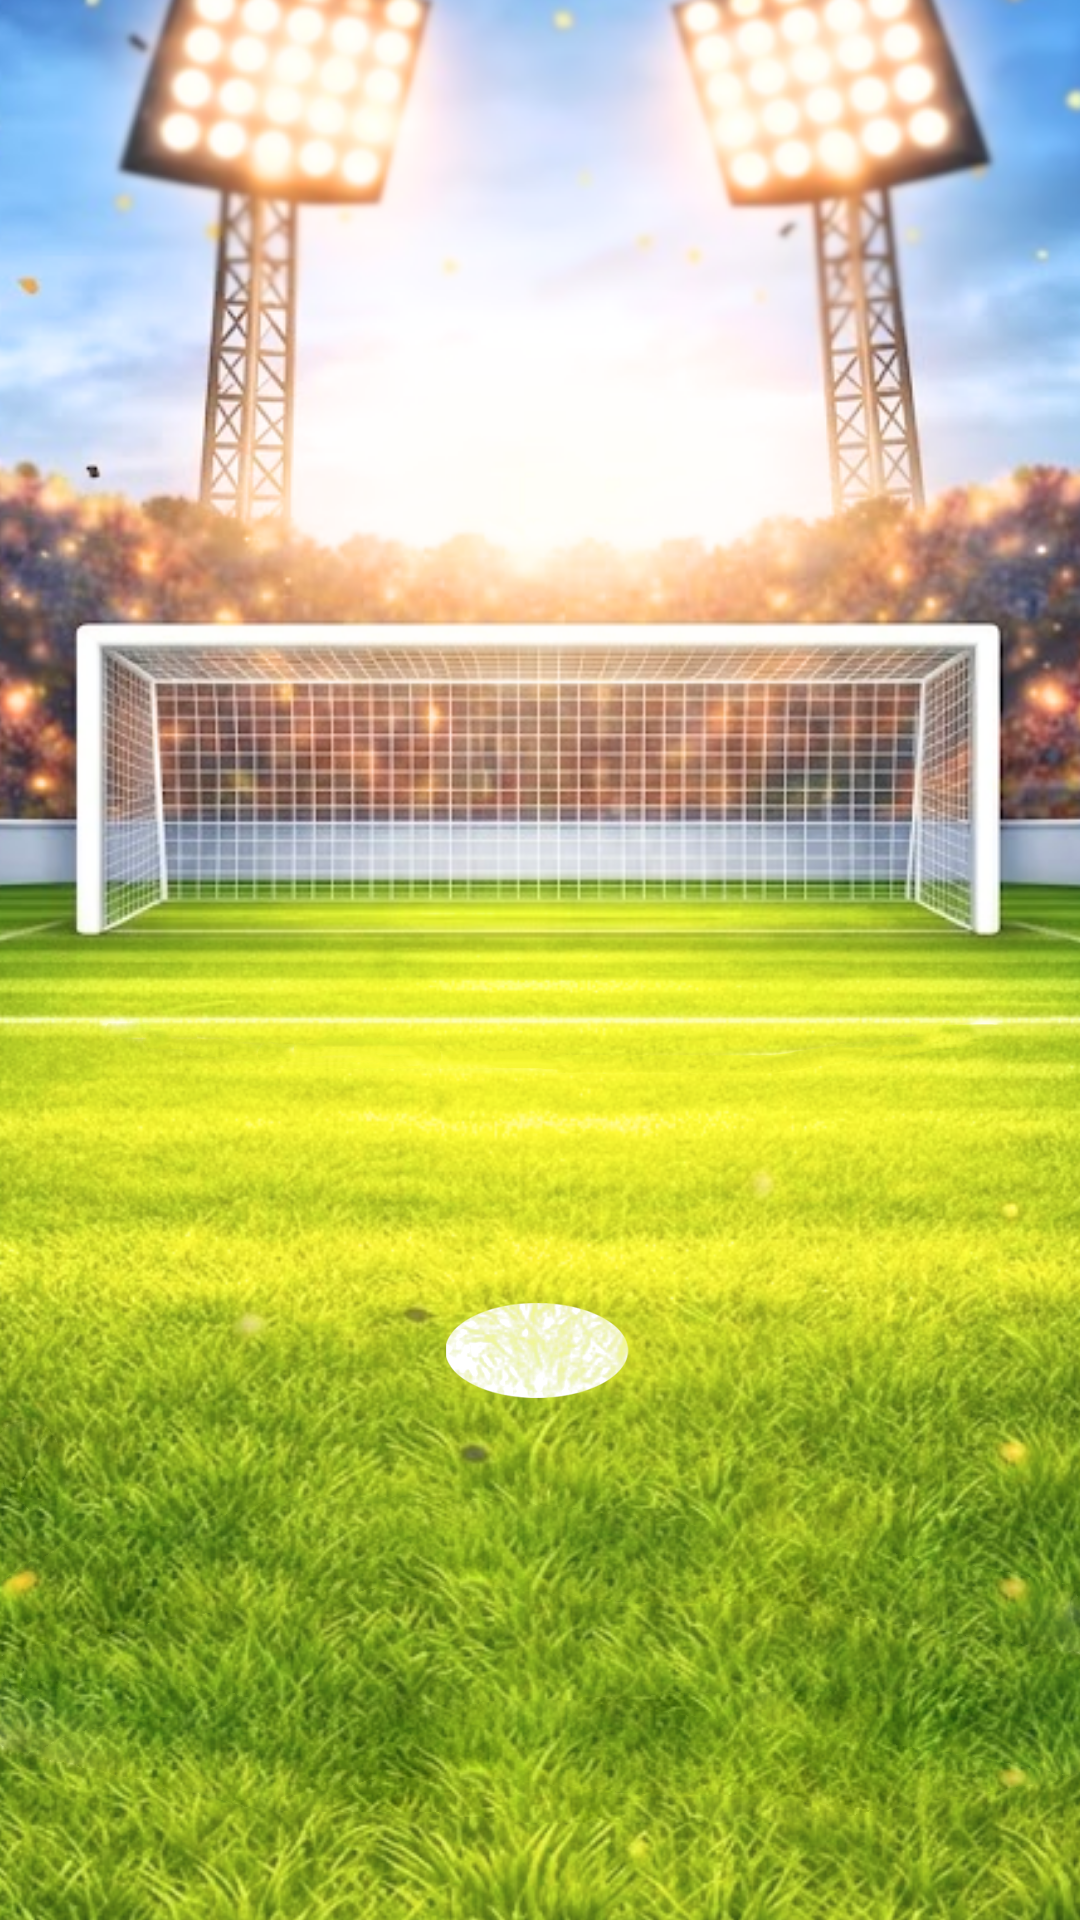
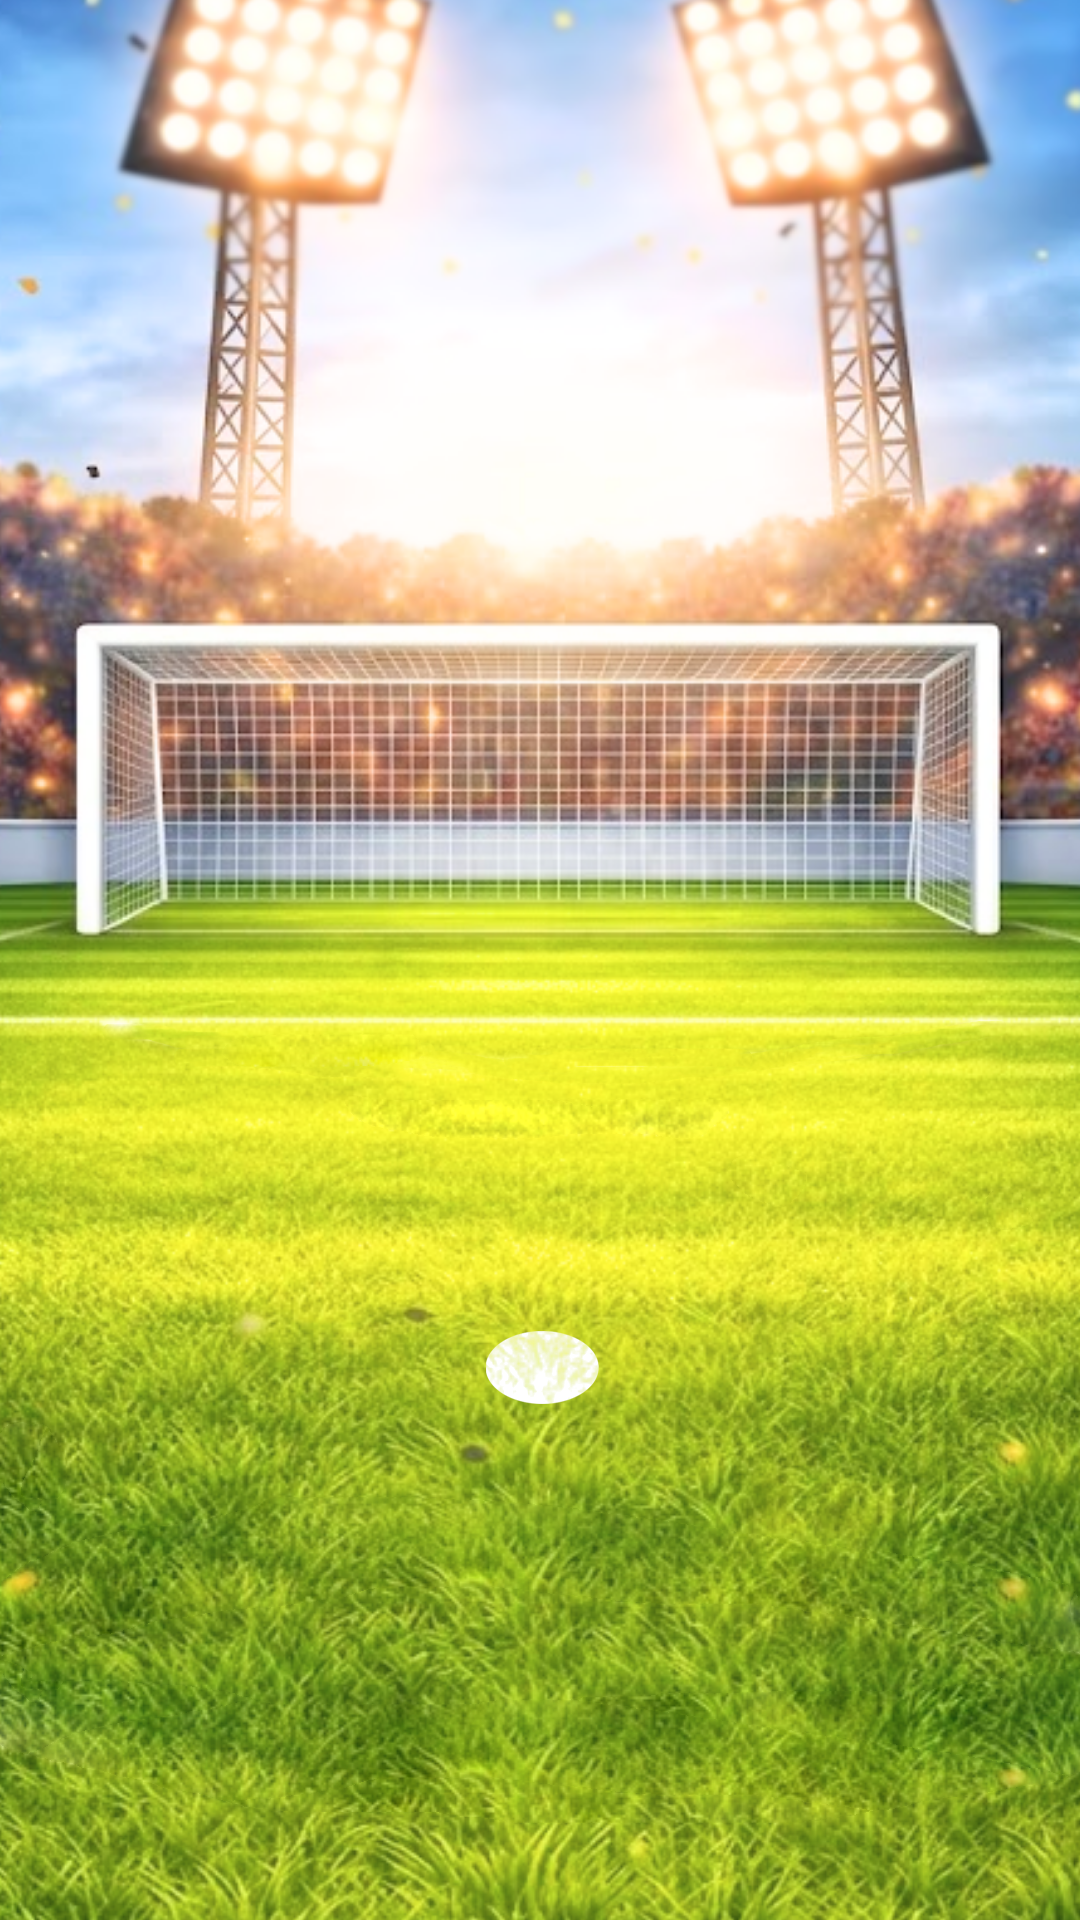
update

diff --git a/index.html b/index.html
@@ -236,6 +236,52 @@
         color: #fff0a2;
       }
 
+      .demo-reset {
+        position: absolute;
+        top: 8.8%;
+        right: 6%;
+        padding: 14px 22px;
+        border-radius: 999px;
+        background: rgba(10, 22, 46, 0.82);
+        border: 1px solid rgba(255, 255, 255, 0.18);
+        color: #fff5be;
+        font-family: var(--display-font);
+        font-size: 22px;
+        letter-spacing: 0.08em;
+        text-transform: uppercase;
+        box-shadow: var(--shadow);
+        backdrop-filter: blur(8px);
+        z-index: 6;
+        transition:
+          transform 180ms ease,
+          opacity 180ms ease,
+          background 180ms ease;
+      }
+
+      .demo-reset:active {
+        transform: scale(0.97);
+      }
+
+      .demo-reset:hover {
+        background: rgba(20, 40, 78, 0.9);
+      }
+
+      .demo-reset.covert {
+        opacity: 0;
+        color: transparent;
+        background: transparent;
+        border-color: transparent;
+        box-shadow: none;
+        backdrop-filter: none;
+      }
+
+      .demo-reset.covert:hover,
+      .demo-reset.covert:active {
+        opacity: 0;
+        background: transparent;
+        transform: none;
+      }
+
       .hint {
         position: absolute;
         left: 50%;
@@ -764,6 +810,10 @@
             </div>
           </div>
 
+          <button class="demo-reset covert" id="demoResetButton" type="button">
+            Reset plays
+          </button>
+
           <img
             class="brand game-brand"
             src="assets/layout/12.png"
@@ -899,15 +949,25 @@
         minX: 0.04,
         maxX: 0.96,
         minY: 0.08,
-        maxY: 0.78,
+        maxY: 0.86,
       };
       const GOAL_MOUTH_LIMITS = {
-        minX: 0.14,
-        maxX: 0.86,
-        minY: 0.28,
-        maxY: 0.67,
+        minX: 0.05,
+        maxX: 0.95,
+        minY: 0.49,
+        maxY: 0.79,
       };
       const GOAL_SUCCESS_RATE = 0.38;
+      const SHOT_SCALE = {
+        win: 0.42,
+        save: 0.5,
+        miss: 0.46,
+      };
+      const GOAL_HITBOX_INSET = {
+        side: 0.92,
+        top: 1.02,
+        bottom: 0.12,
+      };
       const SAVE_STYLES = ["catch", "parry"];
       const KEEPER_SAVE_REACH = {
         high: 0.06,
@@ -956,6 +1016,7 @@
       const statusText = document.getElementById("statusText");
       const hintText = document.querySelector(".hint");
       const shootButton = document.getElementById("shootButton");
+      const demoResetButton = document.getElementById("demoResetButton");
       const banner = document.getElementById("banner");
       const bannerText = document.getElementById("bannerText");
       const bannerSub = document.getElementById("bannerSub");
@@ -1182,6 +1243,17 @@
         formNote.textContent = "";
       }
 
+      function resetDemoPlays() {
+        setStoredPlaysUsed(0);
+        state.playing = false;
+        hidePopup();
+        rewardForm.reset();
+        formNote.textContent = "";
+        resetRoundVisuals(true);
+        syncPlayState();
+        setStatus(`Demo reset complete. ${TOTAL_PLAYS} plays restored.`);
+      }
+
       function spawnConfetti() {
         confetti.innerHTML = "";
         const colors = ["#ff6d43", "#fff0a2", "#21c488", "#ffffff", "#69bcff"];
@@ -1222,15 +1294,40 @@
 
       function autoAim() {
         const xMarks = [0.18, 0.34, 0.5, 0.66, 0.82];
-        const yMarks = [0.34, 0.48, 0.6];
+        const yMarks = [0.58, 0.66, 0.74];
         return {
           x: xMarks[Math.floor(Math.random() * xMarks.length)],
           y: yMarks[Math.floor(Math.random() * yMarks.length)],
         };
       }
 
-      function isAimInsideGoalMouth(aim) {
-        return isWithinLimits(aim, GOAL_MOUTH_LIMITS);
+      function getBallGoalInset(shotScale = SHOT_SCALE.win) {
+        if (!goalZone.clientWidth || !goalZone.clientHeight) {
+          return { x: 0, y: 0 };
+        }
+
+        const renderedBallWidth = ball.clientWidth * shotScale;
+        const radiusX = renderedBallWidth * 0.5;
+        const radiusY = radiusX;
+
+        return {
+          x: radiusX / goalZone.clientWidth,
+          y: radiusY / goalZone.clientHeight,
+        };
+      }
+
+      function getGoalScoringLimits(shotScale = SHOT_SCALE.win) {
+        const inset = getBallGoalInset(shotScale);
+        return {
+          minX: GOAL_MOUTH_LIMITS.minX + inset.x * GOAL_HITBOX_INSET.side,
+          maxX: GOAL_MOUTH_LIMITS.maxX - inset.x * GOAL_HITBOX_INSET.side,
+          minY: GOAL_MOUTH_LIMITS.minY + inset.y * GOAL_HITBOX_INSET.top,
+          maxY: GOAL_MOUTH_LIMITS.maxY - inset.y * GOAL_HITBOX_INSET.bottom,
+        };
+      }
+
+      function isAimInsideGoalMouth(aim, shotScale = SHOT_SCALE.win) {
+        return isWithinLimits(aim, getGoalScoringLimits(shotScale));
       }
 
       function getKeeperNormalizedX() {
@@ -1292,7 +1389,8 @@
       }
 
       function getGoalImpactAim(aim, keeperX) {
-        const goalAim = jitterAim(aim);
+        const scoringLimits = getGoalScoringLimits();
+        const goalAim = jitterAim(aim, SHOT_JITTER, scoringLimits);
         const saveReach = getKeeperSaveReach(goalAim) + GOAL_ESCAPE_MARGIN;
         const isTooCloseToKeeper = Math.abs(goalAim.x - keeperX) <= saveReach;
 
@@ -1306,13 +1404,13 @@
             keeperX +
               (shootRight ? 1 : -1) *
                 randomBetween(saveReach, saveReach + 0.12),
-            GOAL_MOUTH_LIMITS.minX,
-            GOAL_MOUTH_LIMITS.maxX,
+            scoringLimits.minX,
+            scoringLimits.maxX,
           ),
           y: clamp(
             goalAim.y - randomBetween(0.02, 0.05),
-            GOAL_MOUTH_LIMITS.minY,
-            GOAL_MOUTH_LIMITS.maxY,
+            scoringLimits.minY,
+            scoringLimits.maxY,
           ),
         };
       }
@@ -1524,8 +1622,11 @@
         const target = getGoalTargetPoint(outcome.visualAim);
         const shotX = target.x - start.x;
         const shotY = target.y - start.y;
-        const shotScale =
-          outcome.type === "miss" ? 0.46 : outcome.isWin ? 0.42 : 0.5;
+        const shotScale = outcome.isWin
+          ? SHOT_SCALE.win
+          : outcome.type === "miss"
+            ? SHOT_SCALE.miss
+            : SHOT_SCALE.save;
         const shotRotate = `${(Math.random() - 0.5) * 130}deg`;
 
         moveKeeper(outcome.visualAim.x, outcome.isWin, outcome.saveStyle);
@@ -1576,6 +1677,10 @@
 
       shootButton.addEventListener("click", () => {
         runShot(autoAim());
+      });
+
+      demoResetButton.addEventListener("click", () => {
+        resetDemoPlays();
       });
 
       aimArea.addEventListener("click", (event) => {